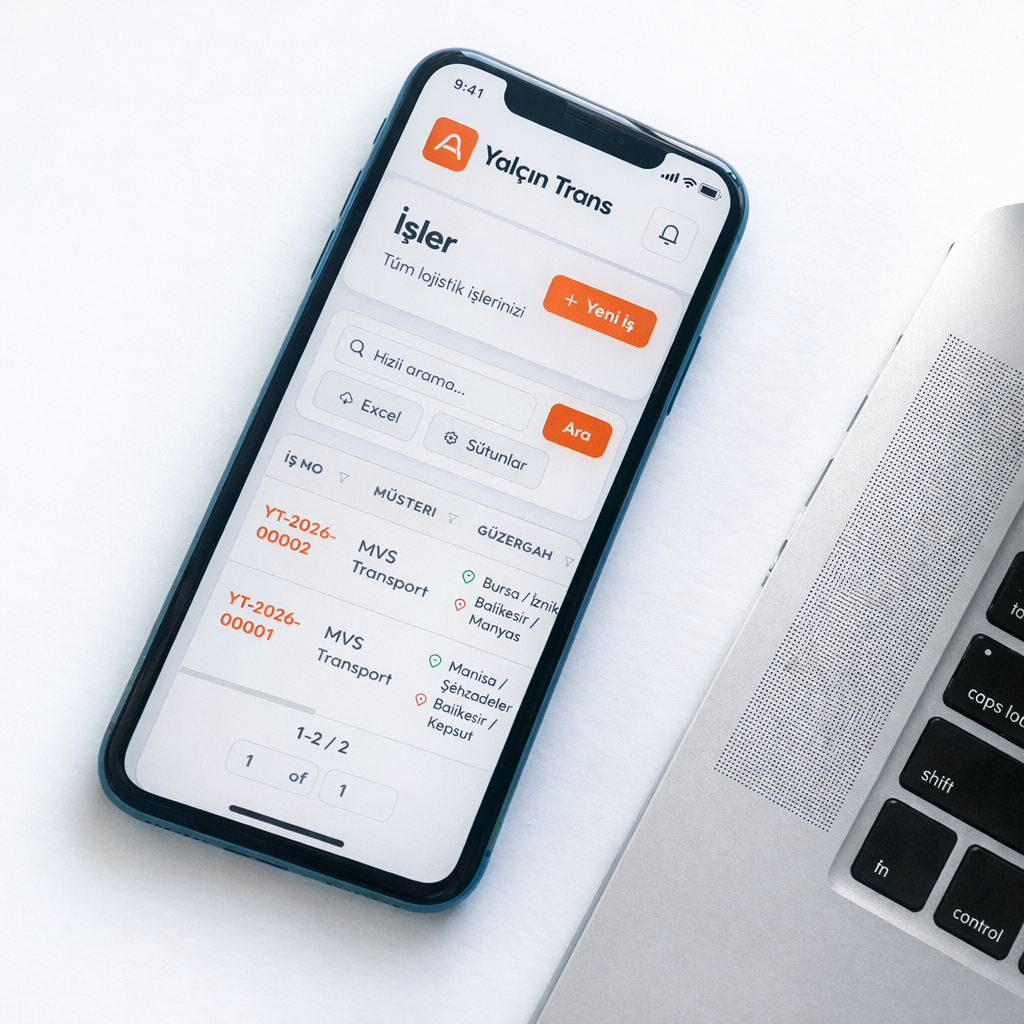
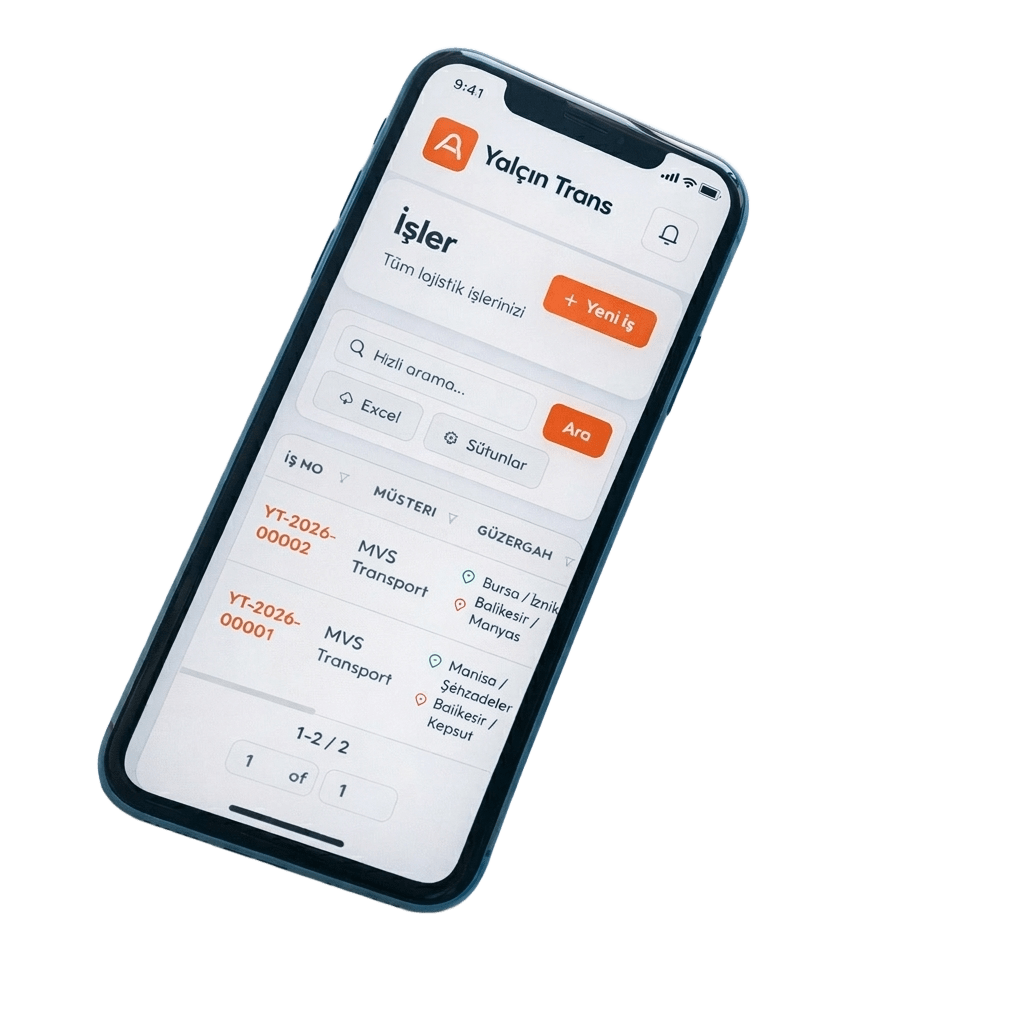
Carousel değişti, yeni referans ekleni

diff --git a/src/components/ui/HeroCarousel.tsx b/src/components/ui/HeroCarousel.tsx
@@ -29,7 +29,6 @@ export default function HeroCarousel({
   brandColor = '#007aff',
   contactButtonText,
 }: HeroCarouselProps) {
-  // Statik stil bloğu (sadece CSS değişkeni kullanır)
   const styleTagContent = `
     .hero-pagination .swiper-pagination-bullet {
       background: #cbd5e1 !important;
@@ -61,10 +60,11 @@ export default function HeroCarousel({
 
   return (
     <section
-      className="relative w-full overflow-hidden bg-white"
+      className="relative w-full overflow-hidden bg-white pt-20 md:pt-0"
       style={{ '--brand-color': brandColor } as React.CSSProperties}
     >
       <style dangerouslySetInnerHTML={{ __html: styleTagContent }} />
+
       <Swiper
         modules={[Autoplay, EffectFade, Pagination, Parallax]}
         effect="fade"
@@ -85,10 +85,13 @@ export default function HeroCarousel({
         {slides.map((slide, index) => (
           <SwiperSlide key={index}>
             <div className="relative min-h-screen w-full">
-              <div className="mx-auto flex min-h-screen w-full max-w-7xl items-center px-6 py-16 md:px-8 lg:px-12">
-                <div className="grid w-full grid-cols-1 items-center gap-12 lg:grid-cols-2 lg:gap-16">
-                  {/* Sol: Metin */}
-                  <div className="order-2 text-center lg:order-1 lg:text-left">
+              <div className="mx-auto flex min-h-screen w-full max-w-7xl items-center px-4 py-8 sm:px-6 sm:py-12 md:px-8 md:py-16 lg:px-12">
+                
+                {/* GRID */}
+                <div className="grid w-full grid-cols-1 items-center gap-8 sm:gap-12 lg:grid-cols-2 lg:gap-16">
+                  
+                  {/* TEXT (mobilde üstte) */}
+                  <div className="text-center lg:text-left">
                     <div
                       className="mb-6 inline-block rounded-full bg-indigo-50/80 px-5 py-2 text-[13px] font-semibold tracking-tight text-indigo-600 backdrop-blur-sm"
                       data-swiper-parallax="-100"
@@ -124,29 +127,30 @@ export default function HeroCarousel({
                     </div>
                   </div>
 
-                  {/* Sağ: Kare Görsel */}
-                  <div className="order-1 flex items-center justify-center lg:order-2">
-                    <div className="relative w-full max-w-md lg:max-w-xl">
-                      <div className="group relative overflow-hidden rounded-2xl bg-neutral-100 shadow-xl transition-all duration-500 hover:shadow-2xl">
+                  {/* IMAGE (mobilde altta) */}
+                  <div className="flex items-center justify-center">
+                    <div className="relative w-full max-w-xs sm:max-w-sm md:max-w-md lg:max-w-lg xl:max-w-xl 2xl:max-w-2xl">
+                      <div className="group relative overflow-hidden transition-all duration-500">
                         <div className="relative aspect-square w-full">
                           <Image
                             src={slide.image}
                             alt={slide.tag}
                             fill
-                            className="object-cover transition-transform duration-700 group-hover:scale-105"
+                            className="object-cover transition-transform duration-500 group-hover:scale-110 group-hover:rotate-1"
                             priority={index === 0}
                             sizes="(max-width: 768px) 100vw, 50vw"
-                          // quality prop'u kaldırıldı
                           />
                         </div>
                       </div>
                     </div>
                   </div>
+
                 </div>
               </div>
             </div>
           </SwiperSlide>
         ))}
+
         <div className="hero-pagination absolute bottom-8 left-1/2 z-50 flex -translate-x-1/2 gap-2" />
       </Swiper>
     </section>

diff --git a/src/app/[locale]/references/page.tsx b/src/app/[locale]/references/page.tsx
@@ -7,15 +7,16 @@ import Image from 'next/image';
 
 // Referans Listesi
 const references = [
-  { name: 'Andesan Savunma Sanayi LTD. ŞTİ.', logo: '/logos/andesan_metal.jpeg' },
+  { name: 'ANDESAN Savunma Sanayi LTD. ŞTİ.', logo: '/logos/andesan_metal.jpeg' },
   { name: 'Jeojem Mühendislik', logo: '/logos/jeojem.png' },
   { name: 'KESKA Zemin Yapı Laboratuvarı ve Mühendislik', logo: '/logos/keska.png' },
-  { name: 'Neu Europa Group', logo: '/logos/ne_group.png' },
-  { name: 'Noksi Metal San. ve Dış. Tic. Ltd. Şti.', logo: '/logos/noksi_metal.png' },
-  { name: 'Rivia Mühendislik', logo: '/logos/rivia.png' },
-  { name: 'Teknodrom', logo: '/logos/teknodrom.png' },
-  { name: 'Yeşil Sağlık Tıbbi Cihazlar', logo: '/logos/yesil_saglik.png' },
-  { name: 'Yalçın Trans', logo: '/logos/yalcin_trans.png' },
+  { name: 'Neu Europa Group LTD. ŞTİ.', logo: '/logos/ne_group.png' },
+  { name: 'NOKSİ METAL San. ve Dış. Tic. Ltd. Şti.', logo: '/logos/noksi_metal.png' },
+  { name: 'RİVİA Mühendislik', logo: '/logos/rivia.png' },
+  { name: 'TEKNODROM', logo: '/logos/teknodrom.png' },
+  { name: 'YEŞİL SAĞLIK LTİ. ŞTİ.', logo: '/logos/yesil_saglik.png' },
+  { name: 'YALÇIN TRANS LTD. ŞTİ.', logo: '/logos/yalcin_trans.png' },
+  { name: 'MEGAYOL TRAFİK LTD. ŞTİ.', logo: '/logos/megayol.png' },
 ];
 
 export async function generateMetadata({ params }: { params: Promise<{ locale: string }> }) {
@@ -126,6 +127,6 @@ export default function ReferencesPage() {
         </div>
       </section>
 
-    </main> 
+    </main>
   );
 }

diff --git a/src/app/[locale]/page.tsx b/src/app/[locale]/page.tsx
@@ -35,6 +35,18 @@ export default function Home() {
   // Carousel slides – linkler düzeltildi (mevcut /services/* rotalarına yönlendiriliyor)
   const slides = [
     {
+      image: "/images/multi.png",
+      tag: t("slide0_tag"),
+      title: (
+        <>
+          {t("slide0_t")}<br />
+          <span className="text-indigo-600">{t("slide0_t2")}</span>
+        </>
+      ),
+      desc: t("slide0_desc"),
+      link: "/services/mobile-app",     // mobil uygulama sayfası
+    },
+    {
       image: "/images/mobile.png",
       tag: t("slide1_tag"),
       title: (
@@ -59,7 +71,7 @@ export default function Home() {
       link: "/services/web-design",     // web tasarım sayfası
     },
     {
-      image: "/images/laser-cutting.jpg",
+      image: "/images/laser-cutting.png",
       tag: t("slide3_tag"),
       title: (
         <>
